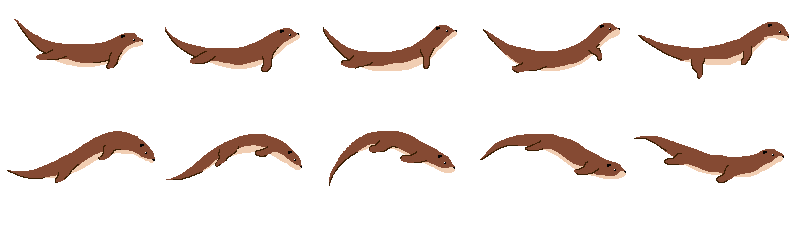
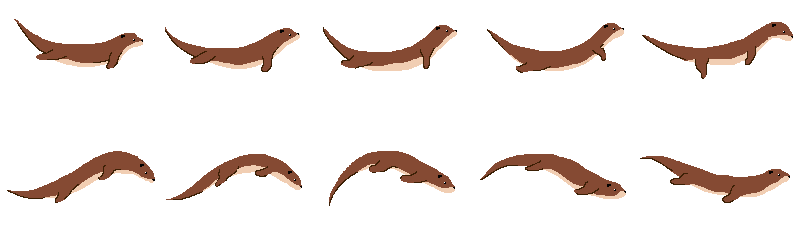
add basic swim animation

diff --git a/scripts/main.js b/scripts/main.js
@@ -80,17 +80,15 @@ class GameScene extends Phaser.Scene {
         // ollie.setCollideWorldBounds(true);
 
         //animations
-        ollie = this.physics.add.sprite (game.config / 3, game.config.height * .75, 'ollie').setScale(2);
+        ollie = this.physics.add.sprite(game.config.width / 3, game.config.height * .75, 'ollie').setScale(2);
         ollie.setCollideWorldBounds(true);
-        // var swim = ollie.animations.add('swim');
-        // ollie.animation.play('swim', 30, true);
-        const swim =this.anims.create({
+        this.anims.create({
             key: 'swim',
-            frames: this.generateFrameNumbers('ollie'),
-            frameRate: 10,
+            frames: this.anims.generateFrameNumbers('ollie'),
+            frameRate: 8,
+            repeat: -1
         });
-
-
+        ollie.anims.play('swim');
 
         camera = this.cameras.main;
         camera.setBounds(0, 0, game.config.width, game.config.height * 1.5);
